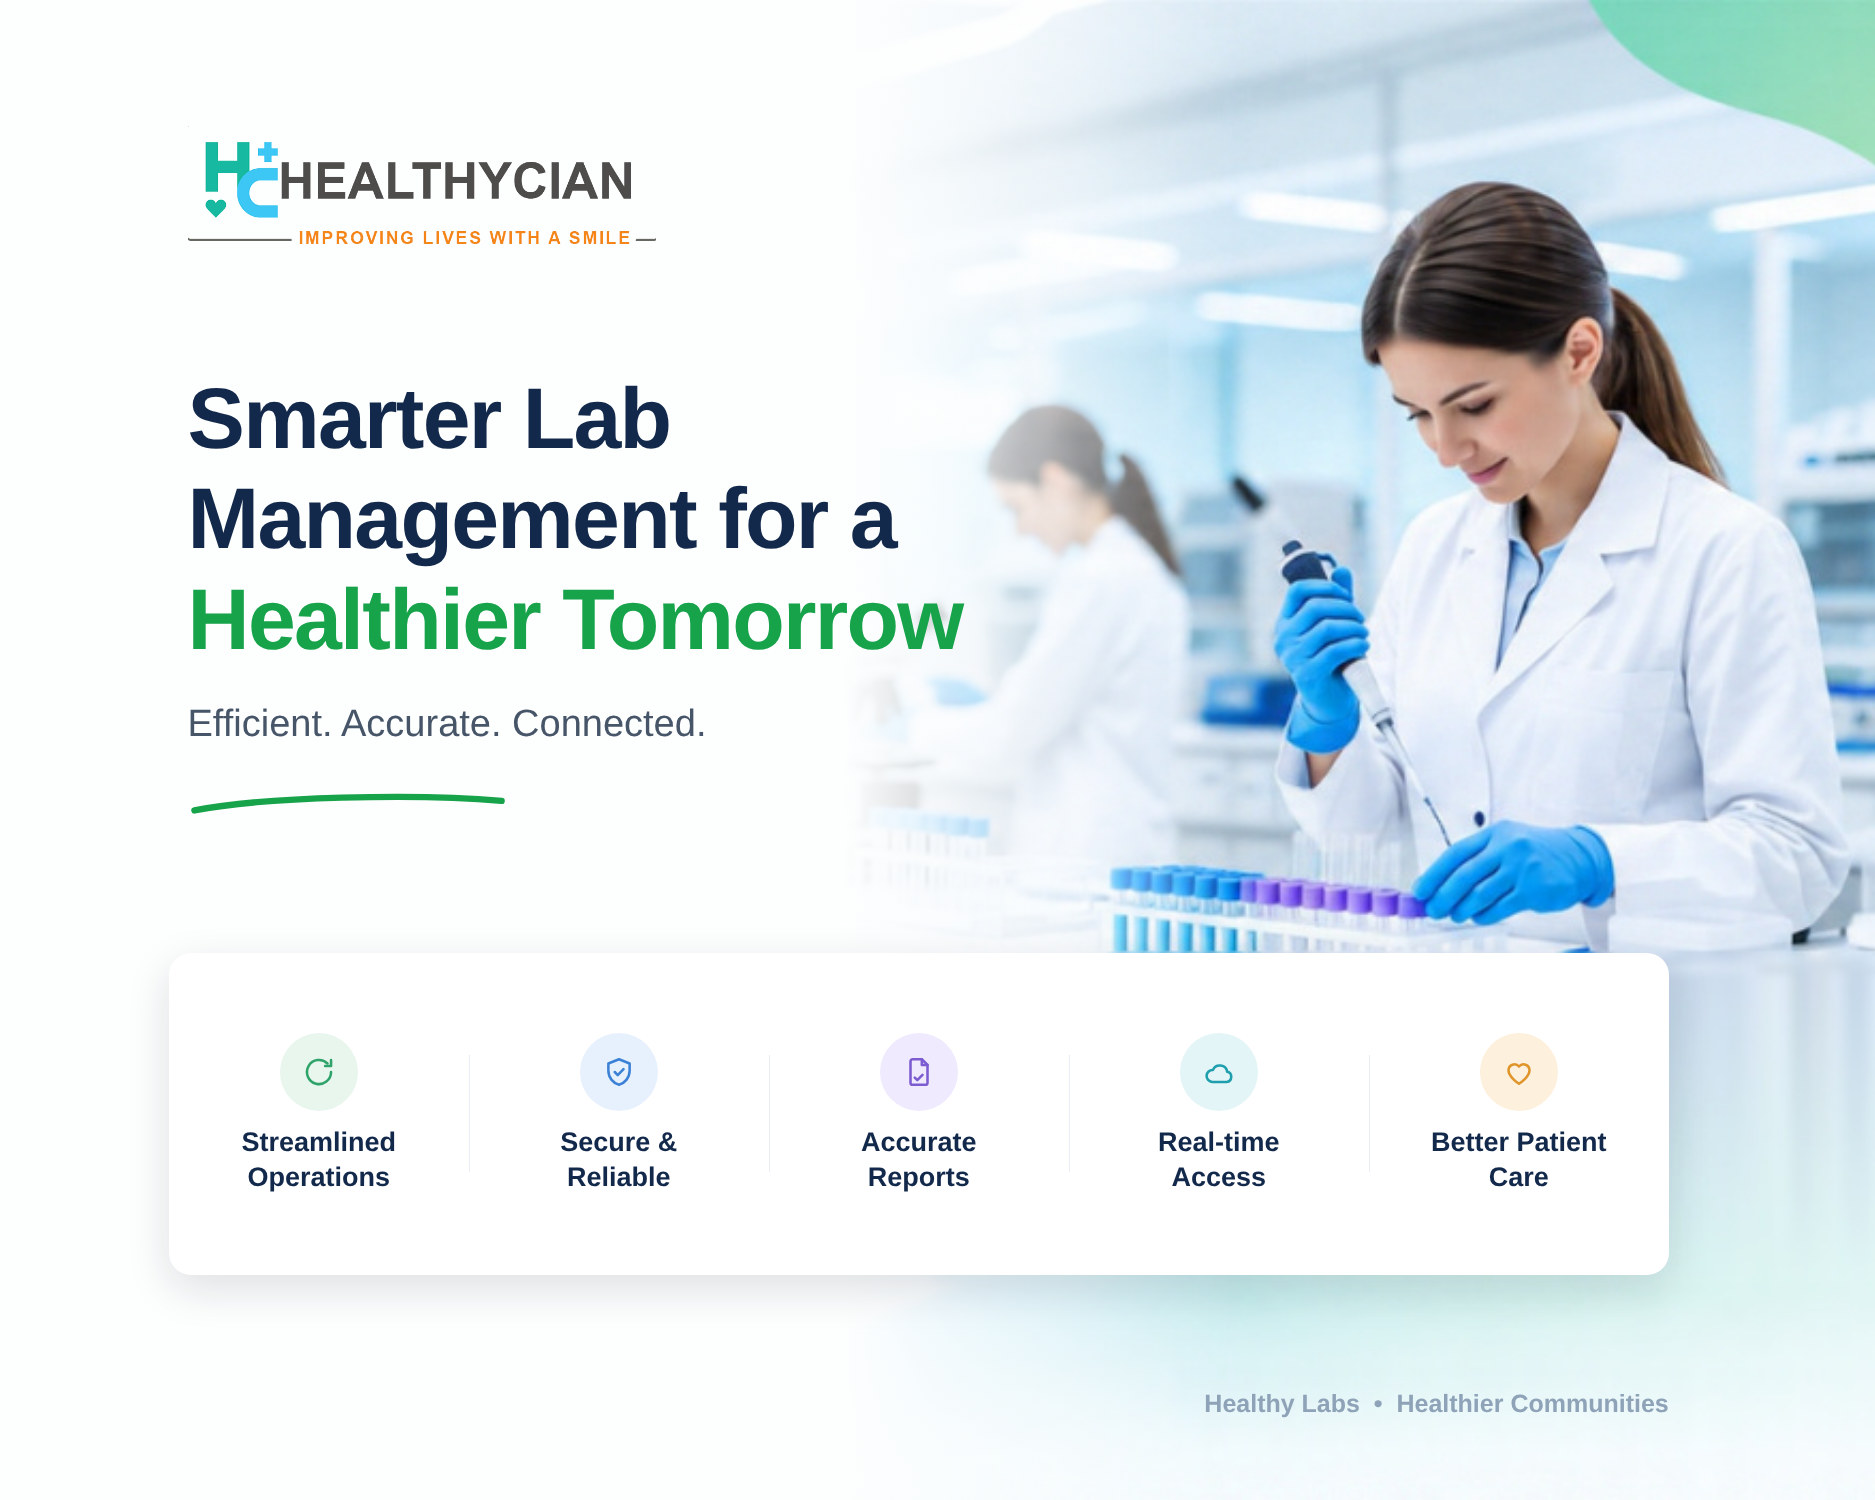
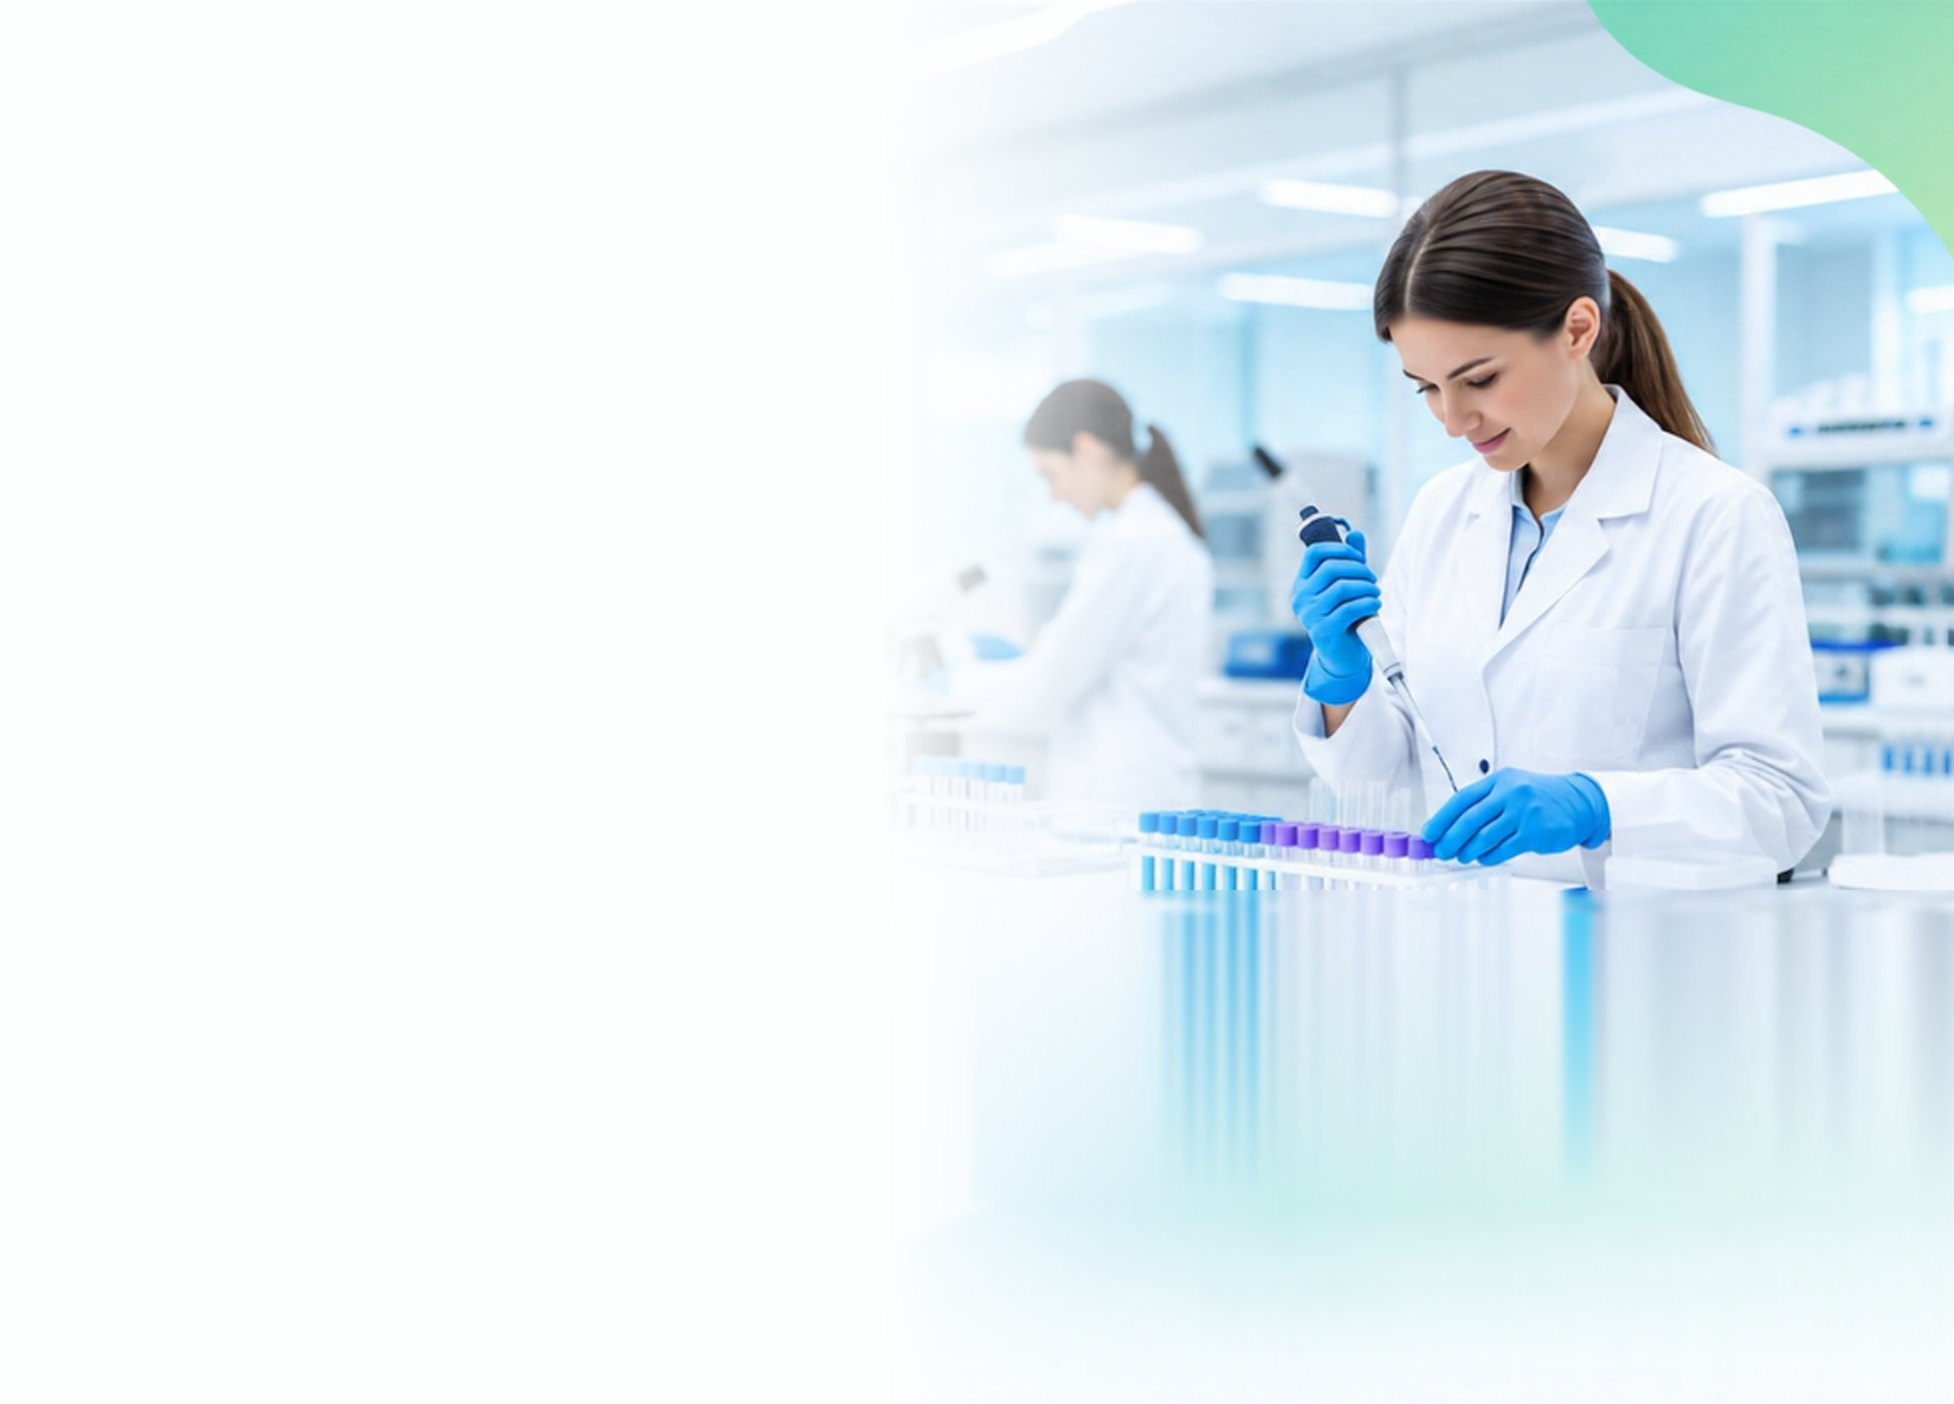
search add in result and New bill

diff --git a/frontend/src/pages/Login.jsx b/frontend/src/pages/Login.jsx
@@ -4,8 +4,13 @@ import healthycianLogo from '../assets/healthycian_logo.png';
 import labHero from '../assets/lab-hero.jpg';
 
 /**
- * OPTION A — the supplied banner used whole as the right-hand panel,
- * with the sign-in card floating on the left.
+ * The sign-in card floats on the left; the right is the lab's own artwork.
+ *
+ * lab-hero.jpg is only the PHOTOGRAPH — the wordmark, headline, feature strip
+ * and footer line are all live markup on top of it. They used to be baked into
+ * the picture, and object-fit:cover trimmed the top and bottom of it on a real
+ * browser window, which cut the footer off. Markup cannot be cropped, so it
+ * now survives any window height, and it stays sharp on a large monitor.
  *
  * Deliberately NOT here, because the lab asked for them out: the Center /
  * Doctor login tabs, "Forgot password?", Google sign-in, and the IP/device
@@ -13,6 +18,26 @@ import labHero from '../assets/lab-hero.jpg';
  *
  * The right panel narrows out below 1020px, so a phone gets the card alone.
  */
+
+const FEATURES = [
+  { label: ['Streamlined', 'Operations'],  tint: '#e8f6ee', ink: '#2fa36a', icon: 'process'  },
+  { label: ['Secure &', 'Reliable'],       tint: '#e7f1fd', ink: '#3b82d6', icon: 'shield'   },
+  { label: ['Accurate', 'Reports'],        tint: '#efeafd', ink: '#7c5cd0', icon: 'document' },
+  { label: ['Real-time', 'Access'],        tint: '#e3f5f6', ink: '#1f9fae', icon: 'cloud'    },
+  { label: ['Better Patient', 'Care'],     tint: '#fdf0dd', ink: '#e0952a', icon: 'heart'    },
+];
+
+function Icon({ name }) {
+  const c = {
+    width: '58%', height: '58%', viewBox: '0 0 24 24', fill: 'none',
+    stroke: 'currentColor', strokeWidth: 1.8, strokeLinecap: 'round', strokeLinejoin: 'round',
+  };
+  if (name === 'process')  return <svg {...c}><path d="M20.5 12a8.5 8.5 0 1 1-2.5-6" /><path d="M20.5 3.5v4.2h-4.2" /></svg>;
+  if (name === 'shield')   return <svg {...c}><path d="M12 3l7.5 3v5.2c0 4.6-3.2 8.6-7.5 9.8-4.3-1.2-7.5-5.2-7.5-9.8V6z" /><path d="M9 12l2.1 2.2L15.2 10" /></svg>;
+  if (name === 'document') return <svg {...c}><path d="M14 3H7.5A1.5 1.5 0 0 0 6 4.5v15A1.5 1.5 0 0 0 7.5 21h9a1.5 1.5 0 0 0 1.5-1.5V7z" /><path d="M14 3v4h4" /><path d="M9 16l1.8 1.8L14.5 14" /></svg>;
+  if (name === 'cloud')    return <svg {...c}><path d="M7.2 19a4.2 4.2 0 0 1 .5-8.4 5.3 5.3 0 0 1 10.1 1.3A3.6 3.6 0 0 1 17.4 19z" /></svg>;
+  return <svg {...c}><path d="M12 20.3S4.6 15.7 4.6 10.8a4.2 4.2 0 0 1 7.4-2.7 4.2 4.2 0 0 1 7.4 2.7c0 4.9-7.4 9.5-7.4 9.5z" /></svg>;
+}
 
 export default function Login({ onLogin }) {
   const [email, setEmail]       = useState('');
@@ -128,20 +153,82 @@ export default function Login({ onLogin }) {
         </div>
       </div>
 
-      {/* ── right: the banner, full bleed. Hidden on a narrow screen. ──
-           No radius, shadow or padding: the lab asked for the seam between the
-           two halves gone, so the artwork runs to the top, right and bottom
-           edges and its own pale left wash carries it into the form side. */}
+      {/* ── right: the photo, with every word of it live markup on top.
+           Hidden on a narrow screen. ── */}
       <div className="login-side"
            style={{ position: 'relative', flex: 1, minWidth: 0, height: '100vh', overflow: 'hidden' }}>
-        <img src={labHero} alt="Smarter lab management for a healthier tomorrow"
-             style={{ display: 'block', width: '100%', height: '100%',
+
+        {/* the photo only. Its left edge is faded so the join with the tinted
+            form side does not read as a hard vertical line. */}
+        <img src={labHero} alt="" aria-hidden="true"
+             style={{ position: 'absolute', inset: 0, width: '100%', height: '100%',
                       objectFit: 'cover', objectPosition: 'center',
-                      // the artwork's left edge is near-white and the form side
-                      // is faintly tinted, which showed as a hard vertical line;
-                      // fading the first 3.5% dissolves the join
                       WebkitMaskImage: 'linear-gradient(90deg, rgba(0,0,0,0) 0%, #000 3.5%)',
                       maskImage: 'linear-gradient(90deg, rgba(0,0,0,0) 0%, #000 3.5%)' }} />
+
+        {/* a column the height of the window: the spacer below takes up the
+            slack, so the strip and the footer sit on the bottom edge whatever
+            the window height is, and neither can be cropped away */}
+        <div style={{ position: 'relative', height: '100%', boxSizing: 'border-box',
+                      display: 'flex', flexDirection: 'column',
+                      padding: 'clamp(1rem, 4.5vh, 3.2rem) 9% clamp(0.9rem, 3.5vh, 2.4rem) 8%' }}>
+
+          <img src={healthycianLogo} alt="Healthycian"
+               style={{ width: 'clamp(170px, 23%, 310px)', display: 'block', flex: '0 0 auto' }} />
+
+          {/* two growing gaps, the lower one twice the upper: the headline
+              settles between the wordmark and the strip instead of clinging to
+              the top, and both collapse first when the window gets short */}
+          <div style={{ flex: '1 1 auto', minHeight: 'clamp(1rem, 4vh, 3.4rem)' }} />
+
+          <div style={{ flex: '0 0 auto',
+                        fontSize: 'clamp(1.6rem, 2.85vw, 3rem)', fontWeight: 800, color: '#13294b',
+                        lineHeight: 1.17, letterSpacing: '-0.02em' }}>
+            Smarter Lab<br />Management for a<br />
+            <span style={{ color: '#16a34a' }}>Healthier Tomorrow</span>
+          </div>
+
+          <div style={{ flex: '0 0 auto', marginTop: 'clamp(0.5rem, 1.8vh, 1.1rem)',
+                        fontSize: 'clamp(0.82rem, 1.05vw, 1.18rem)', color: '#475569' }}>
+            Efficient. Accurate. Connected.
+          </div>
+
+          <svg viewBox="0 0 300 20" aria-hidden="true"
+               style={{ flex: '0 0 auto', display: 'block', marginTop: 'clamp(0.4rem, 1.5vh, 1rem)',
+                        width: 'clamp(145px, 15vw, 255px)', height: '14px' }}>
+            <path d="M5 15C68 5 212 3 295 9" stroke="#16a34a" strokeWidth="5" strokeLinecap="round" fill="none" />
+          </svg>
+
+          <div style={{ flex: '2 1 auto', minHeight: 'clamp(0.8rem, 3vh, 2.6rem)' }} />
+
+          <div style={{ flex: '0 0 auto', background: '#fff', borderRadius: '18px',
+                        boxShadow: '0 14px 44px rgba(15,23,42,0.13)',
+                        padding: 'clamp(0.9rem, 2.4vh, 1.7rem) clamp(0.5rem, 1.4vw, 1.2rem)',
+                        display: 'flex', alignItems: 'flex-start' }}>
+            {FEATURES.map((f, i) => (
+              <div key={f.label.join(' ')}
+                   style={{ flex: '1 1 0', minWidth: 0, textAlign: 'center', padding: '0 0.3rem',
+                            borderLeft: i ? '1px solid #e8eef4' : 'none' }}>
+                <div style={{ width: 'clamp(34px, 2.6vw, 50px)', height: 'clamp(34px, 2.6vw, 50px)',
+                              borderRadius: '50%', background: f.tint, color: f.ink,
+                              margin: '0 auto clamp(0.35rem, 1vh, 0.7rem)',
+                              display: 'flex', alignItems: 'center', justifyContent: 'center' }}>
+                  <Icon name={f.icon} />
+                </div>
+                <div style={{ fontSize: 'clamp(0.62rem, 0.78vw, 0.88rem)', fontWeight: 700,
+                              color: '#13294b', lineHeight: 1.3 }}>
+                  {f.label[0]}<br />{f.label[1]}
+                </div>
+              </div>
+            ))}
+          </div>
+
+          <div style={{ flex: '0 0 auto', marginTop: 'clamp(0.6rem, 2vh, 1.3rem)', textAlign: 'right',
+                        fontSize: 'clamp(0.62rem, 0.75vw, 0.85rem)', fontWeight: 600,
+                        color: '#9fb3c6', letterSpacing: '0.01em' }}>
+            Healthy Labs &nbsp;•&nbsp; Healthier Communities
+          </div>
+        </div>
       </div>
 
       <style>{`
